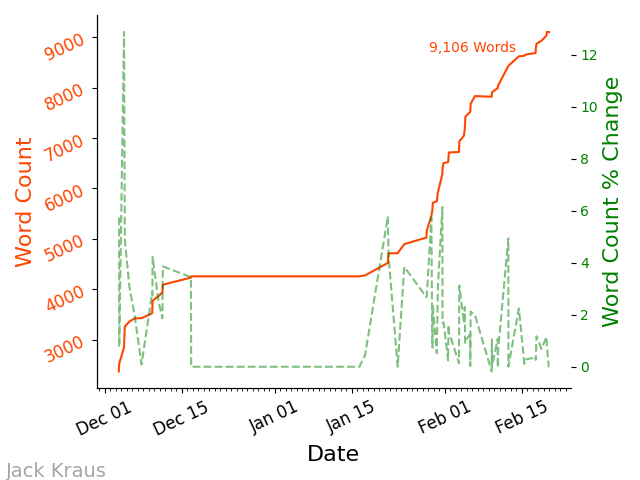
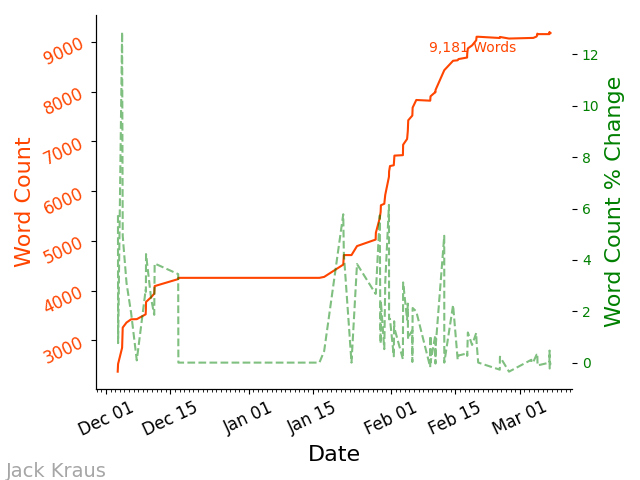
fixed plotProgress.py

diff --git a/progressTracking/plotProgress.py b/progressTracking/plotProgress.py
@@ -4,6 +4,18 @@ import matplotlib.pyplot as plt
 import matplotlib.dates as mdates
 import seaborn as sns
 
+today = datetime.today()
+
+
+pd_version = pd.__version__
+
+# check to see if pandas version < 3.0 
+#   pd v3.0 allows copy-on-write behavior
+#   see https://pandas.pydata.org/pandas-docs/stable/user_guide/copy_on_write.html#copy-on-write
+if(int(pd_version[0]) < 3):
+    pd.options.mode.copy_on_write = True
+
+
 # Adjust this to the path for your thesis/progressTracking directory
 savedir = "/Users/jackkraus/Desktop/masters-thesis/Jack-MS-Thesis-Draft/progressTracking/"
 
@@ -18,7 +30,7 @@ df = df.set_index('timestamp_fixed')
 
 # Define the start and end dates for the range you want to check
 start_date = '2024-12-01'
-end_date = '2025-02-19'
+end_date = today
 
 # Filter the DataFrame for the specified date range
 filtered_df = df.loc[start_date:end_date]

diff --git a/2. CH. ATLASIO/_2.ATLASIO.tex b/2. CH. ATLASIO/_2.ATLASIO.tex
@@ -90,8 +90,6 @@ If the build or test fail, ATLAS Robot will provide a report of which steps fail
 This allows for early detection of issues before the nightly build is compiled and tested.
 
 
-
-
 \section{Derivation Production Jobs}
  \label{section: ATLASIO_Derivation}
 
